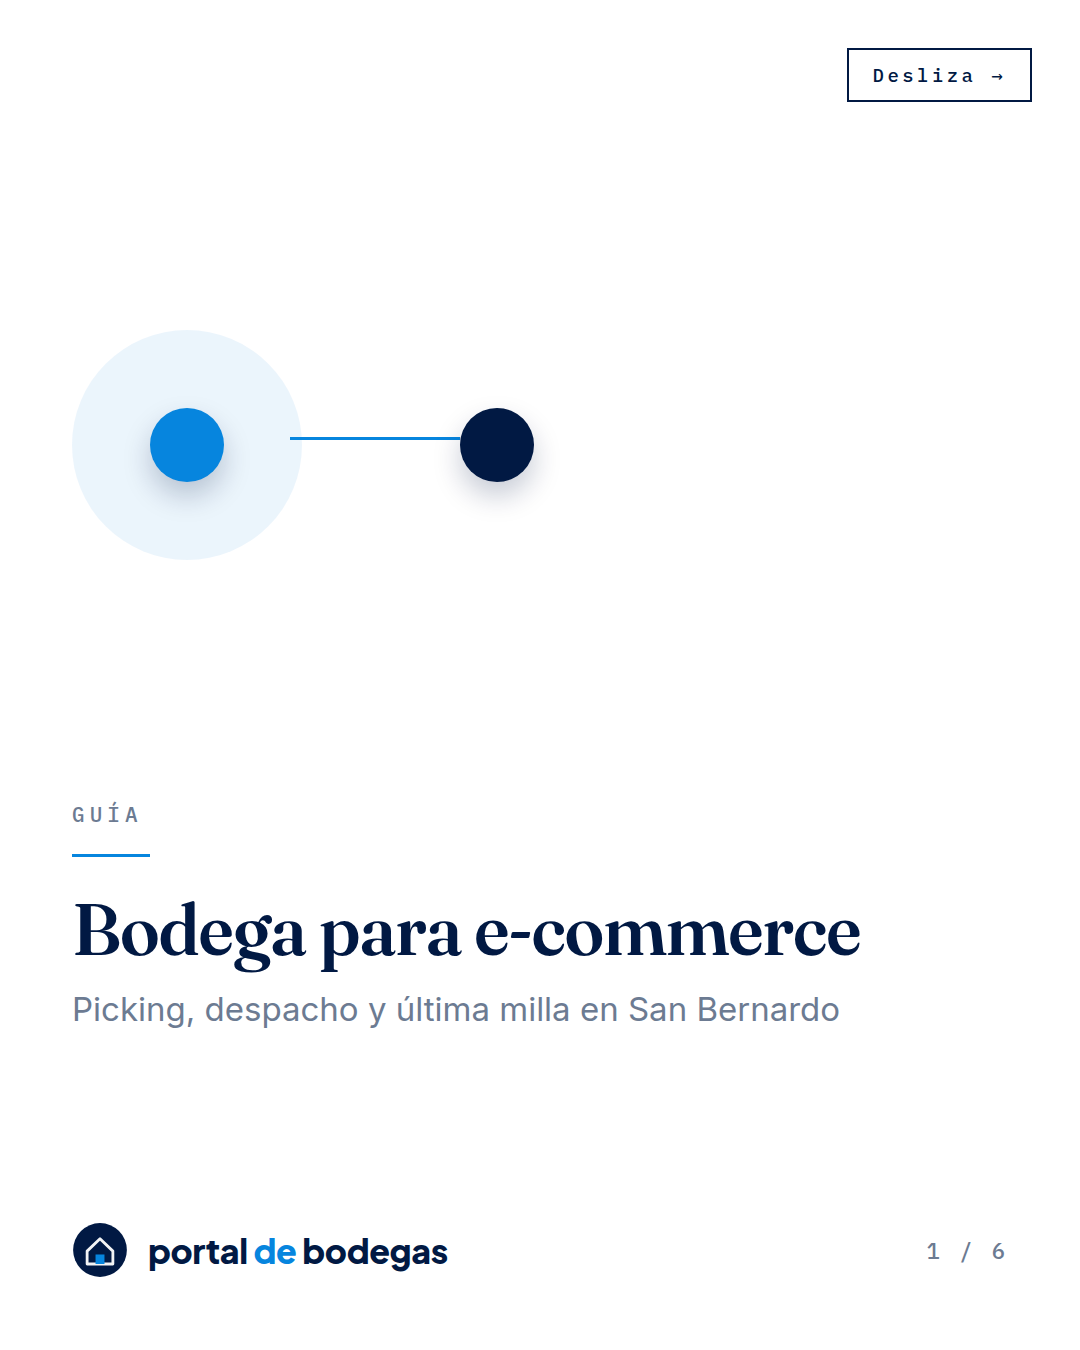
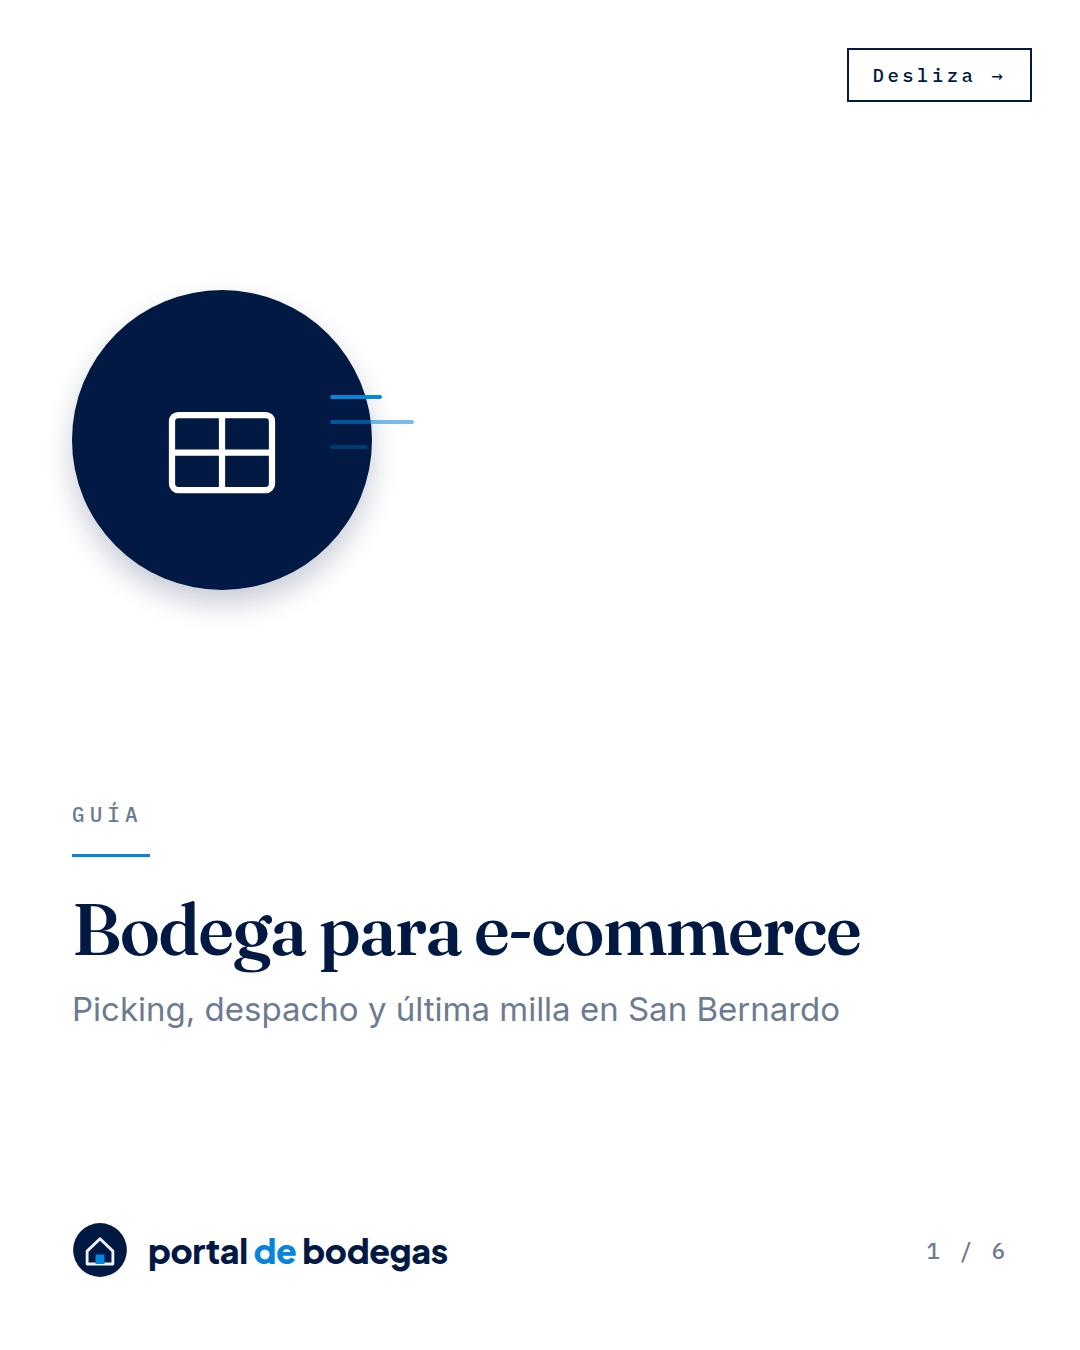
Rediseña la portada del mockup: caja en vez de puntos abstractos
El feedback fue que los dos círculos conectados no significaban nada
("parece cualquier cosa menos portada, o algo de átomos"). Reemplazado
por un círculo grande con el ícono de caja (reutiliza el motivo de
"packing" del resto del carrusel) y unas líneas de velocidad en azul,
directamente ligado al contenido del post.

Claude-Session: https://claude.ai/code/session_01W7a3UqdkMrKs5FYEeECdXB

Changed region(s): [[0.0611, 0.2178, 0.3972, 0.4667], [0.4278, 0.28, 0.5194, 0.3733]]

diff --git a/marketing/mockups/ecommerce-set.js b/marketing/mockups/ecommerce-set.js
@@ -96,15 +96,15 @@ const slideCover = () => shell(`
     font-family:'IBM Plex Mono',monospace;font-weight:500;font-size:19px;letter-spacing:.18em;
     padding:13px 24px">Desliza &rarr;</div>
 
-  <div style="position:absolute;left:72px;top:330px;width:230px;height:230px;border-radius:50%;
-    background:rgba(6,133,222,.08)"></div>
-  <div style="position:absolute;left:150px;top:408px">
-    ${circle(74, C.blue, "")}
+  <div style="position:absolute;left:72px;top:290px">
+    ${circle(300, navy, icon(`
+      <rect x="8" y="16" width="32" height="24" rx="2" stroke="${W}" stroke-width="2"/>
+      <line x1="8" y1="28" x2="40" y2="28" stroke="${W}" stroke-width="2"/>
+      <line x1="24" y1="16" x2="24" y2="40" stroke="${W}" stroke-width="2"/>`, 150))}
   </div>
-  <div style="position:absolute;left:290px;top:437px;width:170px;height:3px;background:${C.blue}"></div>
-  <div style="position:absolute;left:460px;top:408px">
-    ${circle(74, navy, "")}
-  </div>
+  <div style="position:absolute;left:330px;top:395px;width:52px;height:4px;background:${C.blue};border-radius:2px"></div>
+  <div style="position:absolute;left:330px;top:420px;width:84px;height:4px;background:${C.blue};border-radius:2px;opacity:.55"></div>
+  <div style="position:absolute;left:330px;top:445px;width:38px;height:4px;background:${C.blue};border-radius:2px;opacity:.3"></div>
 
   <div style="position:absolute;left:72px;right:72px;top:800px">
     <div class="eyebrow" style="color:${C.slate};font-size:21px">Gu&iacute;a</div>
